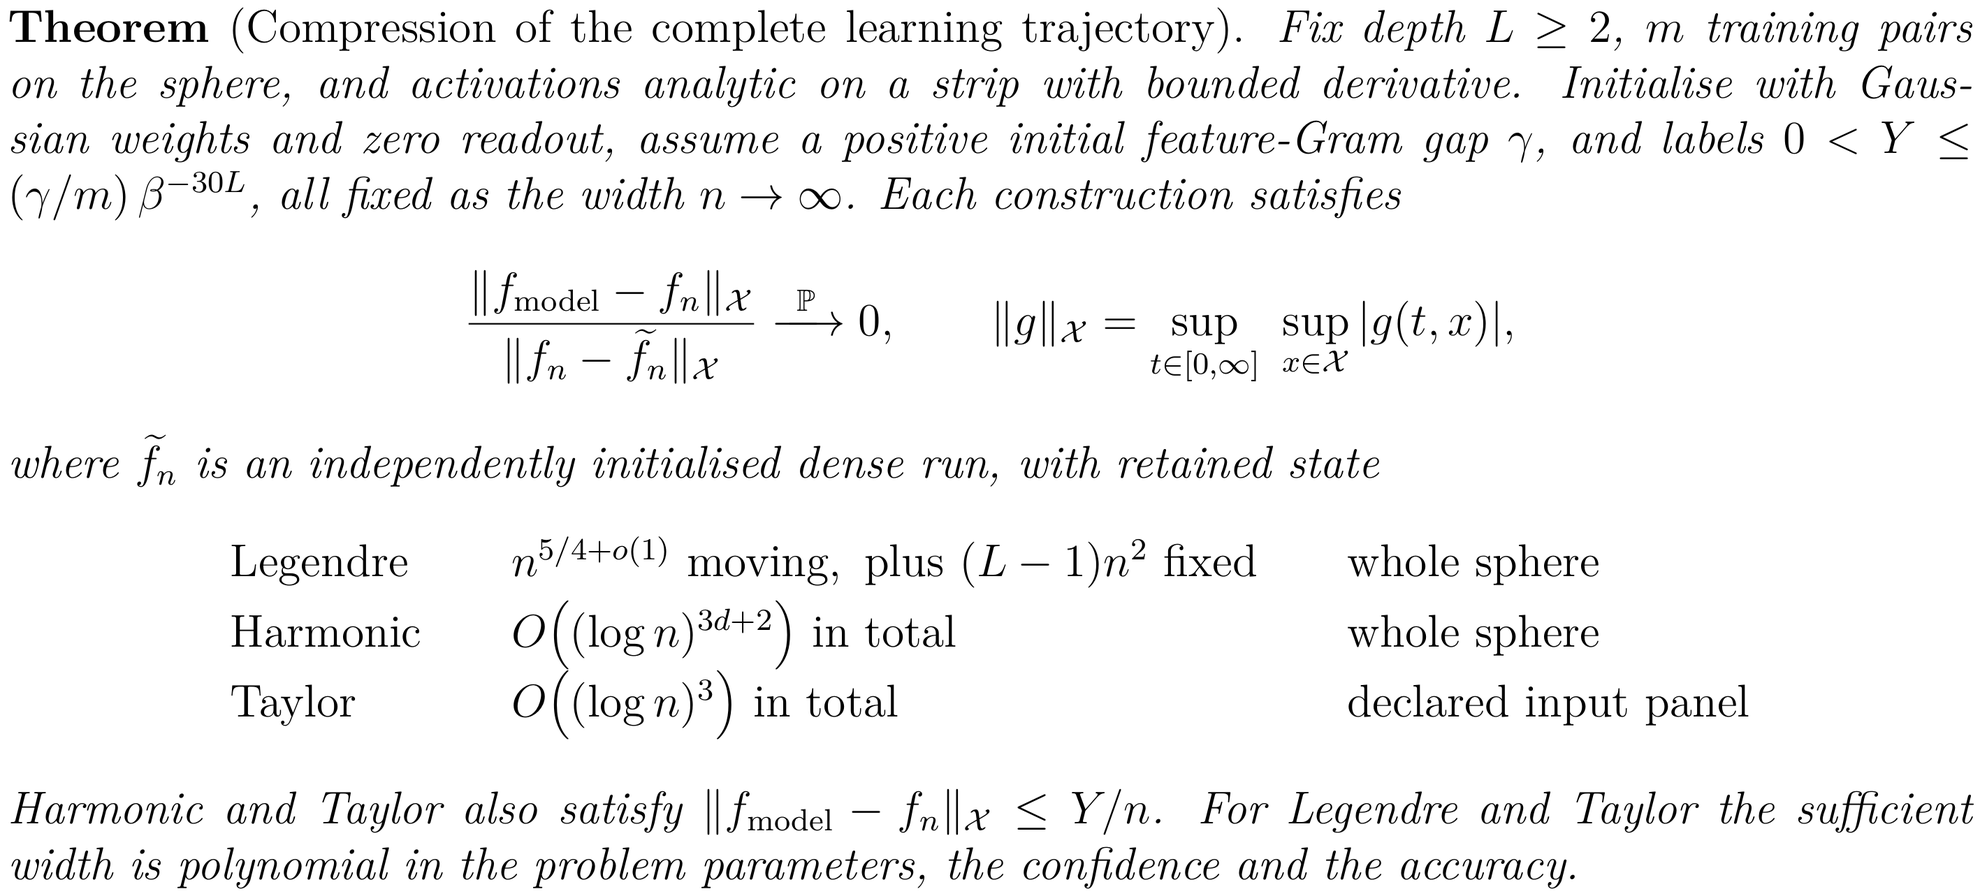
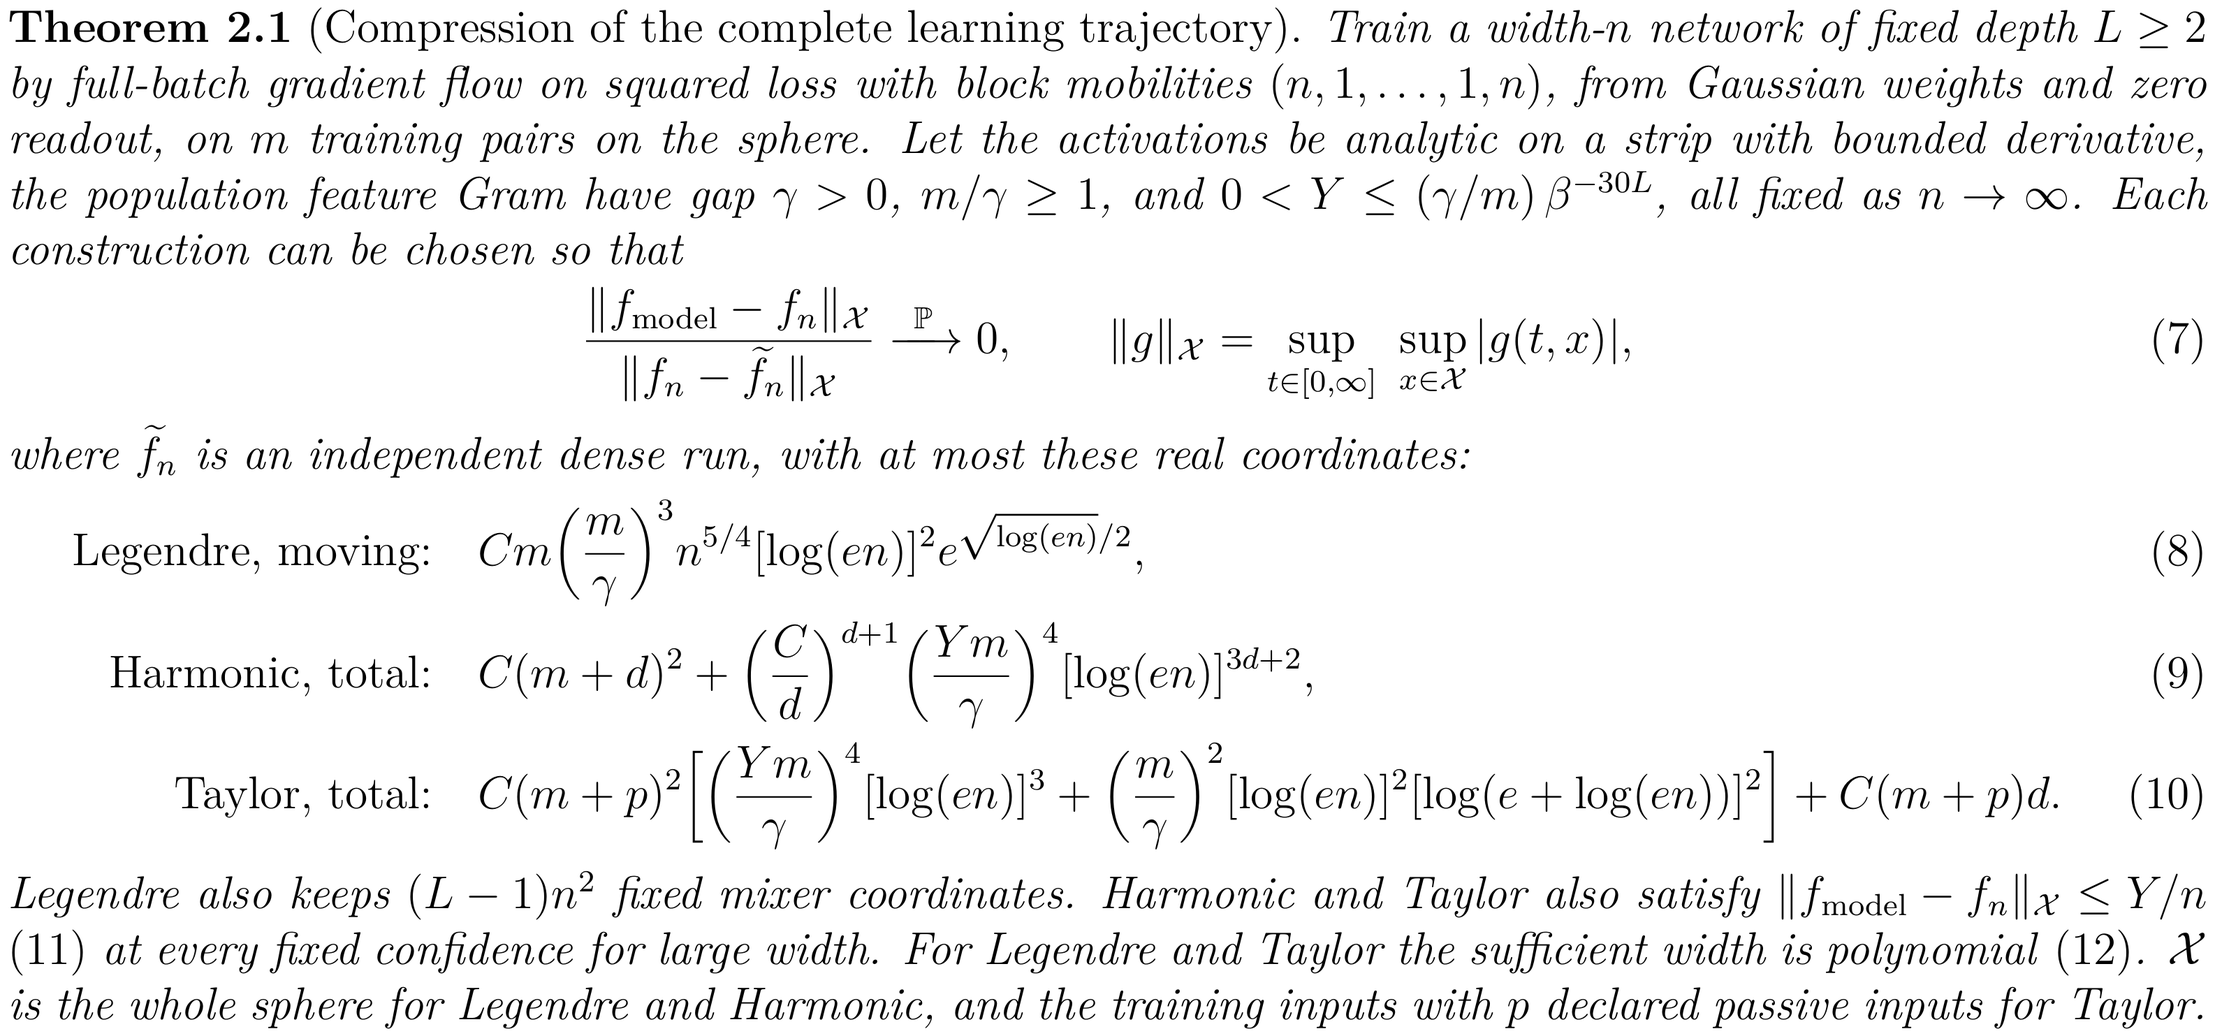
slides: show Theorem 2.1 exactly, with equations 7-12
The main-result plate now states the training rule (gradient flow with block
mobilities), the population Gram gap and m/gamma >= 1, and gives the paper's
explicit size bounds (8)-(10) with the ratio (7), absolute error (11) and
polynomial width (12) numbered as in the paper. Image links carry content
hashes so browsers cannot show a stale cached plate.

diff --git a/paper/slides/html_deck/index.html b/paper/slides/html_deck/index.html
@@ -57,7 +57,7 @@ body.presenting #bar:has(button:hover),body.presenting #bar:focus-within{opacity
 <section class="slide" id="question" style="background:#FBFAF7;color:#1E1E1E;font-family:'LM Roman 12', 'Times New Roman', serif;padding:128px 160px 160px;display:flex;flex-direction:column;gap:56px">
 <h2 style="font-family:'LM Roman 17', 'Times New Roman', serif;font-size:60px;font-weight:400;line-height:1.15;color:#1E1E1E">The question</h2>
 <p style="font-size:34px;line-height:1.45;color:#1E1E1E;">What does a deep network need to remember in order to keep learning? Under gradient flow, every learned hidden matrix is an integrated memory of the network&#39;s own responses:</p>
-<div style="display:flex;flex-direction:column;align-items:center;gap:20px"><img src="img/history.png" alt="W(t) equals W0 minus 2 over nm times the sum over samples of the time integral of residual times backward response times forward response transposed." style="width:1002px;height:141px;object-fit:contain"></div>
+<div style="display:flex;flex-direction:column;align-items:center;gap:20px"><img src="img/history.png?v=aa019bce" alt="W(t) equals W0 minus 2 over nm times the sum over samples of the time integral of residual times backward response times forward response transposed." style="width:1002px;height:141px;object-fit:contain"></div>
 <p style="font-size:34px;line-height:1.45;color:#1E1E1E;">Width simplifies learning in the limit. Does it also make the learning of a finite network representable by a much smaller autonomous state, with an error bound over the entire trajectory?</p>
 <p style="position:absolute;right:160px;bottom:64px;width:200px;text-align:right;font-size:24px;color:#6E6A64">3</p>
 
@@ -78,7 +78,7 @@ body.presenting #bar:has(button:hover),body.presenting #bar:focus-within{opacity
 </section>
 <section class="slide" id="construction" style="background:#FBFAF7;color:#1E1E1E;font-family:'LM Roman 12', 'Times New Roman', serif;padding:128px 160px 160px;display:flex;flex-direction:column;gap:56px">
 <h2 style="font-family:'LM Roman 17', 'Times New Roman', serif;font-size:60px;font-weight:400;line-height:1.15;color:#1E1E1E">Reduction 1: Legendre compresses time</h2>
-<div style="display:flex;flex-direction:column;gap:44px"><div style="display:flex;align-items:center;gap:48px"><p style="font-family:'LM Roman Caps', 'Times New Roman', serif;font-size:28px;letter-spacing:2px;color:#6E6A64;width:300px">Clock</p><img src="img/clock.png" alt="tau dot equals rho, the RMS residual; tau(0) = 1." style="width:595px;height:123px;object-fit:contain;"></div><div style="display:flex;align-items:center;gap:48px"><p style="font-family:'LM Roman Caps', 'Times New Roman', serif;font-size:28px;letter-spacing:2px;color:#6E6A64;width:300px">Memory</p><img src="img/memory.png" alt="First q shifted-Legendre moments, in the clock, of the forward response and of the residual-weighted backward response." style="width:1113px;height:113px;object-fit:contain;"></div><div style="display:flex;align-items:center;gap:48px"><p style="font-family:'LM Roman Caps', 'Times New Roman', serif;font-size:28px;letter-spacing:2px;color:#6E6A64;width:300px">Reconstruction</p><img src="img/recon.png" alt="W hat equals W0 minus 2 over nm tau times the sum over samples and k below q of (2k+1) delta-bar times h-bar transposed." style="width:651px;height:133px;object-fit:contain;"></div></div>
+<div style="display:flex;flex-direction:column;gap:44px"><div style="display:flex;align-items:center;gap:48px"><p style="font-family:'LM Roman Caps', 'Times New Roman', serif;font-size:28px;letter-spacing:2px;color:#6E6A64;width:300px">Clock</p><img src="img/clock.png?v=07e9cb53" alt="tau dot equals rho, the RMS residual; tau(0) = 1." style="width:595px;height:123px;object-fit:contain;"></div><div style="display:flex;align-items:center;gap:48px"><p style="font-family:'LM Roman Caps', 'Times New Roman', serif;font-size:28px;letter-spacing:2px;color:#6E6A64;width:300px">Memory</p><img src="img/memory.png?v=372f26f0" alt="First q shifted-Legendre moments, in the clock, of the forward response and of the residual-weighted backward response." style="width:1113px;height:113px;object-fit:contain;"></div><div style="display:flex;align-items:center;gap:48px"><p style="font-family:'LM Roman Caps', 'Times New Roman', serif;font-size:28px;letter-spacing:2px;color:#6E6A64;width:300px">Reconstruction</p><img src="img/recon.png?v=bfe37470" alt="W hat equals W0 minus 2 over nm tau times the sum over samples and k below q of (2k+1) delta-bar times h-bar transposed." style="width:651px;height:133px;object-fit:contain;"></div></div>
 <p style="font-size:32px;line-height:1.45;color:#3A3835;">The moments obey a closed linear system (shifted Legendre, as in HiPPO), and every response is evaluated in the reconstructed network: the memory feeds back on what it records. Every neuron and the initial matrices are kept.</p>
 
 <p style="position:absolute;right:160px;bottom:64px;width:200px;text-align:right;font-size:24px;color:#6E6A64">6</p>
@@ -95,21 +95,21 @@ body.presenting #bar:has(button:hover),body.presenting #bar:focus-within{opacity
 <section class="slide" id="selection" style="background:#FBFAF7;color:#1E1E1E;font-family:'LM Roman 12', 'Times New Roman', serif;padding:128px 160px 160px;display:flex;flex-direction:column;gap:44px">
 <h2 style="font-family:'LM Roman 17', 'Times New Roman', serif;font-size:60px;font-weight:400;line-height:1.15;color:#1E1E1E">Reduction 2: Harmonic and Taylor compress neurons</h2>
 <p style="font-size:32px;line-height:1.45;color:#1E1E1E;">Approximate the responses in a small function space, then keep a few neuron coordinates that preserve its inner-product geometry. The result is again a small nonlinear network with the original activations:</p>
-<img src="img/selected.png" alt="Forward pass of the selected network with selected matrices and the original activations; readout re-solved from the tracked residual." style="width:1239px;height:213px;object-fit:contain;align-self:center">
+<img src="img/selected.png?v=547260ca" alt="Forward pass of the selected network with selected matrices and the original activations; readout re-solved from the tracked residual." style="width:1239px;height:213px;object-fit:contain;align-self:center">
 <ul style="font-size:30px;line-height:1.5;color:#1E1E1E"><li>Selecting coordinates, not mixing them, keeps coordinatewise activations meaningful.</li><li>The residual is part of the state, and the readout is re-solved at every instant: this cancels the unstable feedback between readout and residual.</li><li>Harmonic: regularity in time and on the sphere covers every input. Taylor: a declared input panel and time pieces adapted to slowing learning remove the dimension from the exponent.</li></ul>
 <p style="position:absolute;right:160px;bottom:64px;width:200px;text-align:right;font-size:24px;color:#6E6A64">8</p>
 
 </section>
-<section class="slide" id="theorem" style="background:#FBFAF7;color:#1E1E1E;font-family:'LM Roman 12', 'Times New Roman', serif;padding:128px 160px 160px;display:flex;flex-direction:column;gap:40px">
-<h2 style="font-family:'LM Roman 17', 'Times New Roman', serif;font-size:60px;font-weight:400;line-height:1.15;color:#1E1E1E">Main result</h2>
-<img src="img/theorem.png" alt="Theorem: for small fixed labels, Gaussian initialisation, zero readout and a Gram gap, the ratio of compression error to independent dense-run discrepancy, both measured over all time including the fitted limit, tends to zero; Legendre n^(5/4+o(1)) moving coordinates, Harmonic (log n)^(3d+2) and Taylor (log n)^3 in total; Harmonic and Taylor reach error Y/n; polynomial width for Legendre and Taylor." style="width:1417px;height:641px;object-fit:contain;align-self:start">
-<p style="position:absolute;left:160px;bottom:64px;width:1400px;font-family:'LM Roman 12 Italic', 'Times New Roman', serif;font-size:24px;line-height:1.35;color:#6E6A64">Built from the initialisation and the data alone, then an autonomous nonlinear system. Independent dense seeds provably differ by order one over the square root of width, up to logarithms, witnessed early in training; Harmonic and Taylor err by <i>Y</i>/<i>n</i>.</p>
+<section class="slide" id="theorem" style="background:#FBFAF7;color:#1E1E1E;font-family:'LM Roman 12', 'Times New Roman', serif;padding:128px 160px 160px;display:flex;flex-direction:column;gap:24px">
+<h2 style="font-family:'LM Roman 17', 'Times New Roman', serif;font-size:60px;font-weight:400;line-height:1.15;color:#1E1E1E">Main result: Theorem 2.1</h2>
+<img src="img/theorem.png?v=520fad5d" alt="Theorem 2.1 of the paper: under gradient flow with block mobilities (n,1,...,1,n), Gaussian initialisation with zero readout, a population Gram gap and small fixed labels, the ratio of compression error to independent dense-run discrepancy over all time and the query domain tends to zero (7), with retained sizes (8) Legendre, (9) Harmonic and (10) Taylor; Harmonic and Taylor reach Y/n (11); polynomial width for Legendre and Taylor (12)." style="width:1585px;height:741px;object-fit:contain;align-self:start">
+<p style="position:absolute;left:160px;bottom:64px;width:1400px;font-family:'LM Roman 12 Italic', 'Times New Roman', serif;font-size:24px;line-height:1.35;color:#6E6A64">Independent dense seeds provably differ by order one over the square root of width, up to logarithms, witnessed early in training.</p>
 <p style="position:absolute;right:160px;bottom:64px;width:200px;text-align:right;font-size:24px;color:#6E6A64">9</p>
 
 </section>
 <section class="slide" id="feature" style="background:#FBFAF7;color:#1E1E1E;font-family:'LM Roman 12', 'Times New Roman', serif;padding:128px 160px 160px;display:flex;flex-direction:column;gap:32px">
 <h2 style="font-family:'LM Roman 17', 'Times New Roman', serif;font-size:60px;font-weight:400;line-height:1.15;color:#1E1E1E">Not lazy, not linear</h2>
-<img src="img/feature.png" alt="Theorem: width-independent c and t such that each compressed predictor is at least c t from every affine predictor and at least c t^3 from the frozen initial-kernel predictor, and every dense hidden layer moves by at least c t^2." style="width:1417px;height:442px;object-fit:contain;align-self:start">
+<img src="img/feature.png?v=f8fff57a" alt="Theorem: width-independent c and t such that each compressed predictor is at least c t from every affine predictor and at least c t^3 from the frozen initial-kernel predictor, and every dense hidden layer moves by at least c t^2." style="width:1417px;height:442px;object-fit:contain;align-self:start">
 <ul style="font-size:28px;line-height:1.5;color:#1E1E1E"><li>The first gap excludes every deep linear network, with any optimiser.</li><li>The second excludes the reference&#39;s own frozen-feature training.</li><li>Three time scales: readout <span style="font-family:'LM Roman 12 Italic', 'Times New Roman', serif">t</span>, features <span style="font-family:'LM Roman 12 Italic', 'Times New Roman', serif">t</span><sup>2</sup>, departure from the kernel <span style="font-family:'LM Roman 12 Italic', 'Times New Roman', serif">t</span><sup>3</sup>, a sum of squared layer accelerations, so layers cannot cancel.</li></ul>
 <p style="position:absolute;left:160px;bottom:64px;width:1400px;font-family:'LM Roman 12 Italic', 'Times New Roman', serif;font-size:24px;line-height:1.35;color:#6E6A64">Early-time certificates whose constants do not depend on width; the compression itself holds through convergence. Taylor may add up to four passive witness inputs.</p>
 <p style="position:absolute;right:160px;bottom:64px;width:200px;text-align:right;font-size:24px;color:#6E6A64">10</p>
@@ -118,7 +118,7 @@ body.presenting #bar:has(button:hover),body.presenting #bar:focus-within{opacity
 <section class="slide" id="closure" style="background:#FBFAF7;color:#1E1E1E;font-family:'LM Roman 12', 'Times New Roman', serif;padding:128px 160px 160px;display:flex;flex-direction:column;gap:44px">
 <h2 style="font-family:'LM Roman 17', 'Times New Roman', serif;font-size:60px;font-weight:400;line-height:1.15;color:#1E1E1E">Closure alone does not compress</h2>
 <p style="font-size:34px;line-height:1.45;color:#1E1E1E;">The neural tangent hierarchy of Huang and Yau is finite and closed: the right kind of object. How large must it be?</p>
-<img src="img/nth.png" alt="Theorem: the smallest literal frozen-top hierarchy matching dense discrepancy has size between exp(c log m log n) and exp(C log m log n), that is n to the power Theta(log m)." style="width:1417px;height:244px;object-fit:contain;align-self:start">
+<img src="img/nth.png?v=0ff74b18" alt="Theorem: the smallest literal frozen-top hierarchy matching dense discrepancy has size between exp(c log m log n) and exp(C log m log n), that is n to the power Theta(log m)." style="width:1417px;height:244px;object-fit:contain;align-self:start">
 <p style="font-size:34px;line-height:1.45;color:#1E1E1E;">Already for a fixed number of samples this is a power of width whose exponent grows with <span style="font-family:'LM Roman 12 Italic', 'Times New Roman', serif">m</span>; when <span style="font-family:'LM Roman 12 Italic', 'Times New Roman', serif">m</span> grows like a power of <span style="font-family:'LM Roman 12 Italic', 'Times New Roman', serif">n</span> it is exp[&#920;((log&#8201;<span style="font-family:'LM Roman 12 Italic', 'Times New Roman', serif">n</span>)<sup>2</sup>)]. Our reductions exploit redundancy among responses before closing the dynamics.</p>
 <p style="position:absolute;left:160px;bottom:64px;width:1400px;font-family:'LM Roman 12 Italic', 'Times New Roman', serif;font-size:24px;line-height:1.35;color:#6E6A64">A benchmark for this representation and family, not a lower bound against every encoding.</p>
 <p style="position:absolute;right:160px;bottom:64px;width:200px;text-align:right;font-size:24px;color:#6E6A64">11</p>
@@ -133,21 +133,21 @@ body.presenting #bar:has(button:hover),body.presenting #bar:focus-within{opacity
 </section>
 <section class="slide" id="accuracy" style="background:#FBFAF7;color:#1E1E1E;font-family:'LM Roman 12', 'Times New Roman', serif;padding:128px 160px 160px;display:flex;flex-direction:column;gap:32px">
 <h2 style="font-family:'LM Roman 17', 'Times New Roman', serif;font-size:60px;font-weight:400;line-height:1.15;color:#1E1E1E">Numerics: matched learned storage</h2>
-<img src="img/exp_accuracy.png" alt="Endpoint error to the dense reference against learned scalars on the sphere and on digits: Taylor and Harmonic fall below dense versus dense, small dense, low rank and frozen features do not." style="width:1500px;height:600px;object-fit:contain;align-self:center">
+<img src="img/exp_accuracy.png?v=e116fa79" alt="Endpoint error to the dense reference against learned scalars on the sphere and on digits: Taylor and Harmonic fall below dense versus dense, small dense, low rank and frozen features do not." style="width:1500px;height:600px;object-fit:contain;align-self:center">
 <p style="font-size:28px;line-height:1.45;color:#3A3835;width:1500px;align-self:center;line-height:1.4">Width-4096 references, unit-scale labels far outside the theorem&#39;s cap. Taylor is about 4&#215; below dense-versus-dense on the sphere with 1/46 of the dense learned parameters, and about 8&#215; below on digits with 1/15. Small dense networks of the same learned size stay above it; low-rank adaptation and frozen features stay 17 to 45&#215; above.</p>
 <p style="position:absolute;right:160px;bottom:64px;width:200px;text-align:right;font-size:24px;color:#6E6A64">13</p>
 
 </section>
 <section class="slide" id="storage" style="background:#FBFAF7;color:#1E1E1E;font-family:'LM Roman 12', 'Times New Roman', serif;padding:128px 160px 160px;display:flex;flex-direction:column;gap:32px">
 <h2 style="font-family:'LM Roman 17', 'Times New Roman', serif;font-size:60px;font-weight:400;line-height:1.15;color:#1E1E1E">Numerics: storage as width grows</h2>
-<img src="img/exp_storage.png" alt="Learned storage needed to track the dense reference against width 512 to 16384: dense grows quadratically, Taylor polylogarithmically." style="width:1500px;height:565px;object-fit:contain;align-self:center">
+<img src="img/exp_storage.png?v=c833eb61" alt="Learned storage needed to track the dense reference against width 512 to 16384: dense grows quadratically, Taylor polylogarithmically." style="width:1500px;height:565px;object-fit:contain;align-self:center">
 <p style="font-size:28px;line-height:1.45;color:#3A3835;width:1500px;align-self:center;line-height:1.4">Smallest tested model whose worst recorded error stays below that of an independent dense pair, three seeds per width. Dense parameters grow about 1000&#215;, Taylor&#39;s learned state about 5 to 6&#215;. The fits <i>C</i>(log&#8201;<i>n</i>)<sup><i>a</i></sup> are descriptive.</p>
 <p style="position:absolute;right:160px;bottom:64px;width:200px;text-align:right;font-size:24px;color:#6E6A64">14</p>
 
 </section>
 <section class="slide" id="trajectory" style="background:#FBFAF7;color:#1E1E1E;font-family:'LM Roman 12', 'Times New Roman', serif;padding:128px 160px 160px;display:flex;flex-direction:column;gap:32px">
 <h2 style="font-family:'LM Roman 17', 'Times New Roman', serif;font-size:60px;font-weight:400;line-height:1.15;color:#1E1E1E">Numerics: the whole trajectory</h2>
-<img src="img/exp_trajectory.png" alt="Error to the dense reference over training time: Taylor, Harmonic and Legendre stay below dense versus dense at every recorded time." style="width:1500px;height:565px;object-fit:contain;align-self:center">
+<img src="img/exp_trajectory.png?v=d11ba53b" alt="Error to the dense reference over training time: Taylor, Harmonic and Legendre stay below dense versus dense at every recorded time." style="width:1500px;height:565px;object-fit:contain;align-self:center">
 <p style="font-size:28px;line-height:1.45;color:#3A3835;width:1500px;align-self:center;line-height:1.4">Width 4096, three coupled references: every compression stays below the dense-versus-dense discrepancy (dotted) at every recorded time.</p>
 <p style="position:absolute;right:160px;bottom:64px;width:200px;text-align:right;font-size:24px;color:#6E6A64">15</p>
 

diff --git a/paper/slides/html_deck/src/theorem.tex b/paper/slides/html_deck/src/theorem.tex
@@ -1,30 +1,43 @@
 \documentclass[12pt,border=2pt]{standalone}
 \input{preamble}
 \begin{document}
-\begin{minipage}{7.1in}
-\textbf{Theorem} (Compression of the complete learning trajectory).
-\textit{Fix depth $L\ge2$, $m$ training pairs on the sphere, and activations
-analytic on a strip with bounded derivative. Initialise with Gaussian weights
-and zero readout, assume a positive initial feature-Gram gap $\gamma$, and labels
-$0<Y\le(\gamma/m)\,\beta^{-30L}$, all fixed as the width $n\to\infty$. Each
-construction satisfies}
-\[
+\begin{minipage}{7.95in}
+\setlength{\abovedisplayskip}{5pt}\setlength{\belowdisplayskip}{5pt}
+\setlength{\abovedisplayshortskip}{3pt}\setlength{\belowdisplayshortskip}{5pt}
+\textbf{Theorem 2.1} (Compression of the complete learning trajectory).
+\textit{Train a width-$n$ network of fixed depth $L\ge2$ by full-batch gradient
+flow on squared loss with block mobilities $(n,1,\dots,1,n)$, from Gaussian
+weights and zero readout, on $m$ training pairs on the sphere. Let the
+activations be analytic on a strip with bounded derivative, the population
+feature Gram have gap $\gamma>0$, $m/\gamma\ge1$, and
+$0<Y\le(\gamma/m)\,\beta^{-30L}$, all fixed as $n\to\infty$. Each
+construction can be chosen so that}
+\begin{equation}\tag{7}
  \frac{\|f_{\rm model}-f_n\|_{\mathcal X}}{\|f_n-\widetilde f_n\|_{\mathcal X}}
  \xrightarrow{\ \mathbb P\ }0,
  \qquad
  \|g\|_{\mathcal X}=\sup_{t\in[0,\infty]}\ \sup_{x\in\mathcal X}|g(t,x)|,
-\]
-\textit{where $\widetilde f_n$ is an independently initialised dense run, with
-retained state}
-\[
-\begin{array}{@{}l@{\qquad}l@{\qquad}l@{}}
- \text{Legendre} & n^{5/4+o(1)}\ \text{moving},\ \text{plus}\ (L-1)n^2\ \text{fixed} & \text{whole sphere}\\[2pt]
- \text{Harmonic} & O\big((\log n)^{3d+2}\big)\ \text{in total} & \text{whole sphere}\\[2pt]
- \text{Taylor} & O\big((\log n)^{3}\big)\ \text{in total} & \text{declared input panel}
-\end{array}
-\]
-\textit{Harmonic and Taylor also satisfy $\|f_{\rm model}-f_n\|_{\mathcal X}\le Y/n$.
-For Legendre and Taylor the sufficient width is polynomial in the problem
-parameters, the confidence and the accuracy.}
+\end{equation}
+\textit{where $\widetilde f_n$ is an independent dense run, with at most these
+real coordinates:}
+\begin{align}
+ \text{Legendre, moving:}\quad&
+ Cm\Big(\frac m\gamma\Big)^3 n^{5/4}[\log(en)]^2e^{\sqrt{\log(en)}/2},
+ \tag{8}\\
+ \text{Harmonic, total:}\quad&
+ C(m+d)^2+\Big(\frac Cd\Big)^{d+1}\Big(\frac{Ym}\gamma\Big)^4[\log(en)]^{3d+2},
+ \tag{9}\\
+ \text{Taylor, total:}\quad&
+ C(m+p)^2\Big[\Big(\frac{Ym}\gamma\Big)^4[\log(en)]^3
+ +\Big(\frac m\gamma\Big)^2[\log(en)]^2[\log(e+\log(en))]^2\Big]
+ +C(m+p)d.
+ \tag{10}
+\end{align}
+\textit{Legendre also keeps $(L-1)n^2$ fixed mixer coordinates. Harmonic and
+Taylor also satisfy $\|f_{\rm model}-f_n\|_{\mathcal X}\le Y/n$ \textup{(11)} at
+every fixed confidence for large width. For Legendre and Taylor the
+sufficient width is polynomial \textup{(12)}. $\mathcal X$ is the whole sphere
+for Legendre and Harmonic, and the training inputs with $p$ declared passive
+inputs for Taylor.}
 \end{minipage}
 \end{document}
